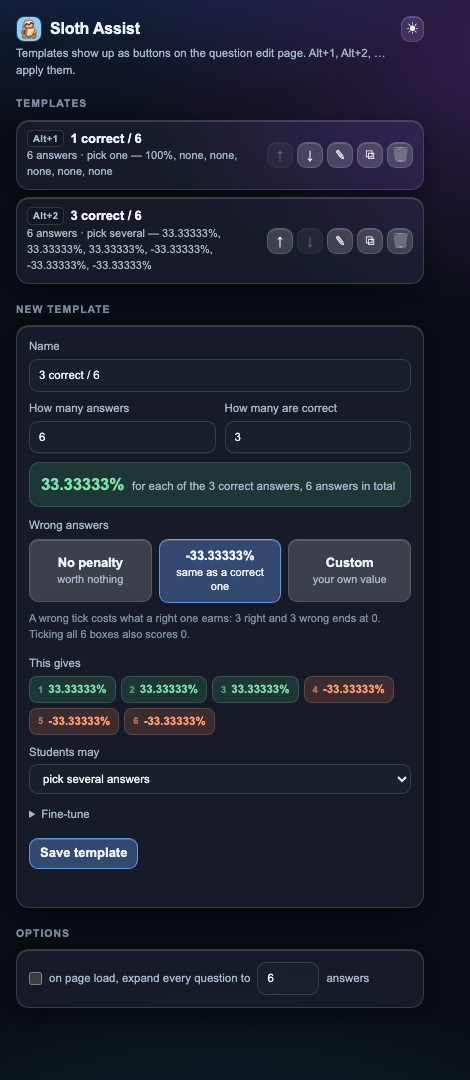
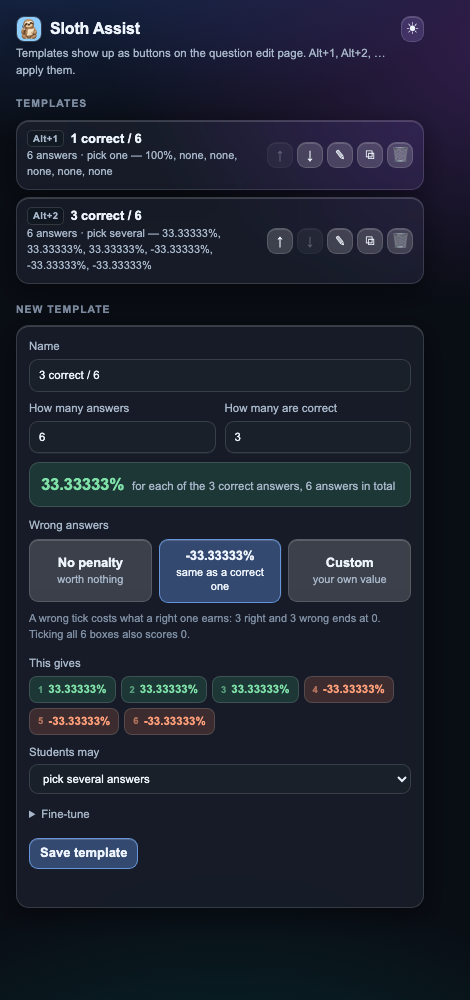
Ship with no site baked in: add your own Moodle from the manager

diff --git a/manager.html b/manager.html
@@ -302,7 +302,7 @@
     <p class="hint" style="margin-bottom:9px">Sloth Assist runs only on the sites listed here. Add your own Moodle, or paste the address of a question page.</p>
     <div id="sites"></div>
     <div class="add-row">
-      <input type="text" id="site-input" placeholder="moodle.my-school.org">
+      <input type="text" id="site-input" placeholder="moodle.example.org">
       <button id="site-add" class="primary">Add</button>
     </div>
     <div class="msg" id="site-msg"></div>

diff --git a/templates.js b/templates.js
@@ -27,7 +27,7 @@ var AQH = (function () {
 
   var DEFAULT_SETTINGS = { autoExpand: false, autoExpandTo: 6, theme: 'dark' };
 
-  var DEFAULT_SITES = [{ pattern: 'https://concurs.acadnet.eu/*', enabled: true }];
+  var DEFAULT_SITES = [];
 
   function normalisePattern(raw) {
     var t = String(raw || '').trim();

diff --git a/background.js b/background.js
@@ -1,5 +1,5 @@
 var SCRIPT_ID = 'sloth-sites';
-var DEFAULT_SITES = [{ pattern: 'https://concurs.acadnet.eu/*', enabled: true }];
+var DEFAULT_SITES = [];
 
 function get(keys) {
   return new Promise(function (resolve) { chrome.storage.local.get(keys, resolve); });

diff --git a/README.md b/README.md
@@ -72,13 +72,19 @@ your extension list.
 **5. Pin it**
 
 Click the puzzle-piece icon in the toolbar, then the pin next to *Sloth Assist*,
-so the sloth stays visible. That icon opens the template manager.
+so the sloth stays visible. That icon opens the manager.
 
-**6. Use it**
+**6. Tell it where you work**
 
-Go to a question edit page on `concurs.acadnet.eu`, for example
-`https://concurs.acadnet.eu/question/edit.php?cat=...` → edit a multiple-choice
-question. The panel is waiting in the bottom-right corner.
+A fresh install runs nowhere at all - it has no idea which Moodle is yours. Open
+the manager, go to **Websites**, and add your site: type its address
+(`moodle.example.org`) or paste the address of any question page from it. Chrome
+asks whether to grant access; accept.
+
+**7. Use it**
+
+Open a multiple-choice question for editing on that site. The panel is waiting in
+the bottom-right corner.
 
 > **After you change any file** (or update the repo): press the ↻ button on the
 > Sloth Assist card in `chrome://extensions`, **and reload any question page you
@@ -137,13 +143,14 @@ the tip line says so.
 
 ## Which websites it runs on
 
-Sloth Assist does nothing at all until a site is on its list. Open the manager
-and look under **Websites**: `concurs.acadnet.eu` is there from the start, and
-you can add any other Moodle you work on.
+Sloth Assist ships with an empty list and does nothing anywhere until you fill
+it in. Open the manager, look under **Websites**, and add every Moodle you work
+on - there is no limit, and a school, a university and a contest platform can sit
+side by side.
 
-To add one, type its address - `moodle.my-school.org` - or simply paste the
-address of a question page you have open; everything after the domain is
-trimmed for you. Chrome then asks whether to grant access to that site, because
+To add one, type its address - `moodle.example.org` - or simply paste the address
+of a question page you have open; everything after the domain is trimmed for
+you. Chrome then asks whether to grant access to that site, because
 an extension may only touch sites you have approved. Accept, and the panel shows
 up there from the next page load.
 
@@ -161,12 +168,8 @@ Every site has its own switch:
 
 The ✕ button removes a site for good and hands its permission back to Chrome.
 
-Two useful details:
-
-* Removing `concurs.acadnet.eu` is allowed - if you do not use it, take it off
-  the list and Sloth Assist will leave that site alone.
-* A tab that is already open when you add a site keeps running without the
-  panel. Reload it once.
+A tab that was already open when you added its site keeps running without the
+panel - reload it once.
 
 ## Panel extras
 
@@ -208,7 +211,7 @@ without it.
 
 | File | Purpose |
 |---|---|
-| `manifest.json` | extension definition: permissions, icons, the one site granted up front |
+| `manifest.json` | extension definition: permissions and icons - no site access up front |
 | `background.js` | registers the panel on whichever sites you have approved |
 | `content.js` | the panel, reading the page, applying templates, the job that survives the reload |
 | `templates.js` | the template model, grade parsing, the list of grades Moodle accepts |
@@ -216,7 +219,8 @@ without it.
 | `panel.css` | the glass panel styling |
 | `icons/` | the sloth, at the sizes Chrome asks for |
 
-Permissions: `storage`, to keep your templates and site list, and `scripting`,
-to switch the panel on for the sites you approve. Access to any site other than
-`concurs.acadnet.eu` is optional and asked for one site at a time, when you add
-it. Nothing is sent anywhere - no account, no tracking, no network calls.
+Permissions: `storage`, to keep your templates and your site list, and
+`scripting`, to switch the panel on for the sites you approve. It asks for no
+website access up front - every site is granted individually, by you, when you
+add it, and giving the permission back is one ✕ away. Nothing is sent anywhere:
+no account, no tracking, no network calls.
